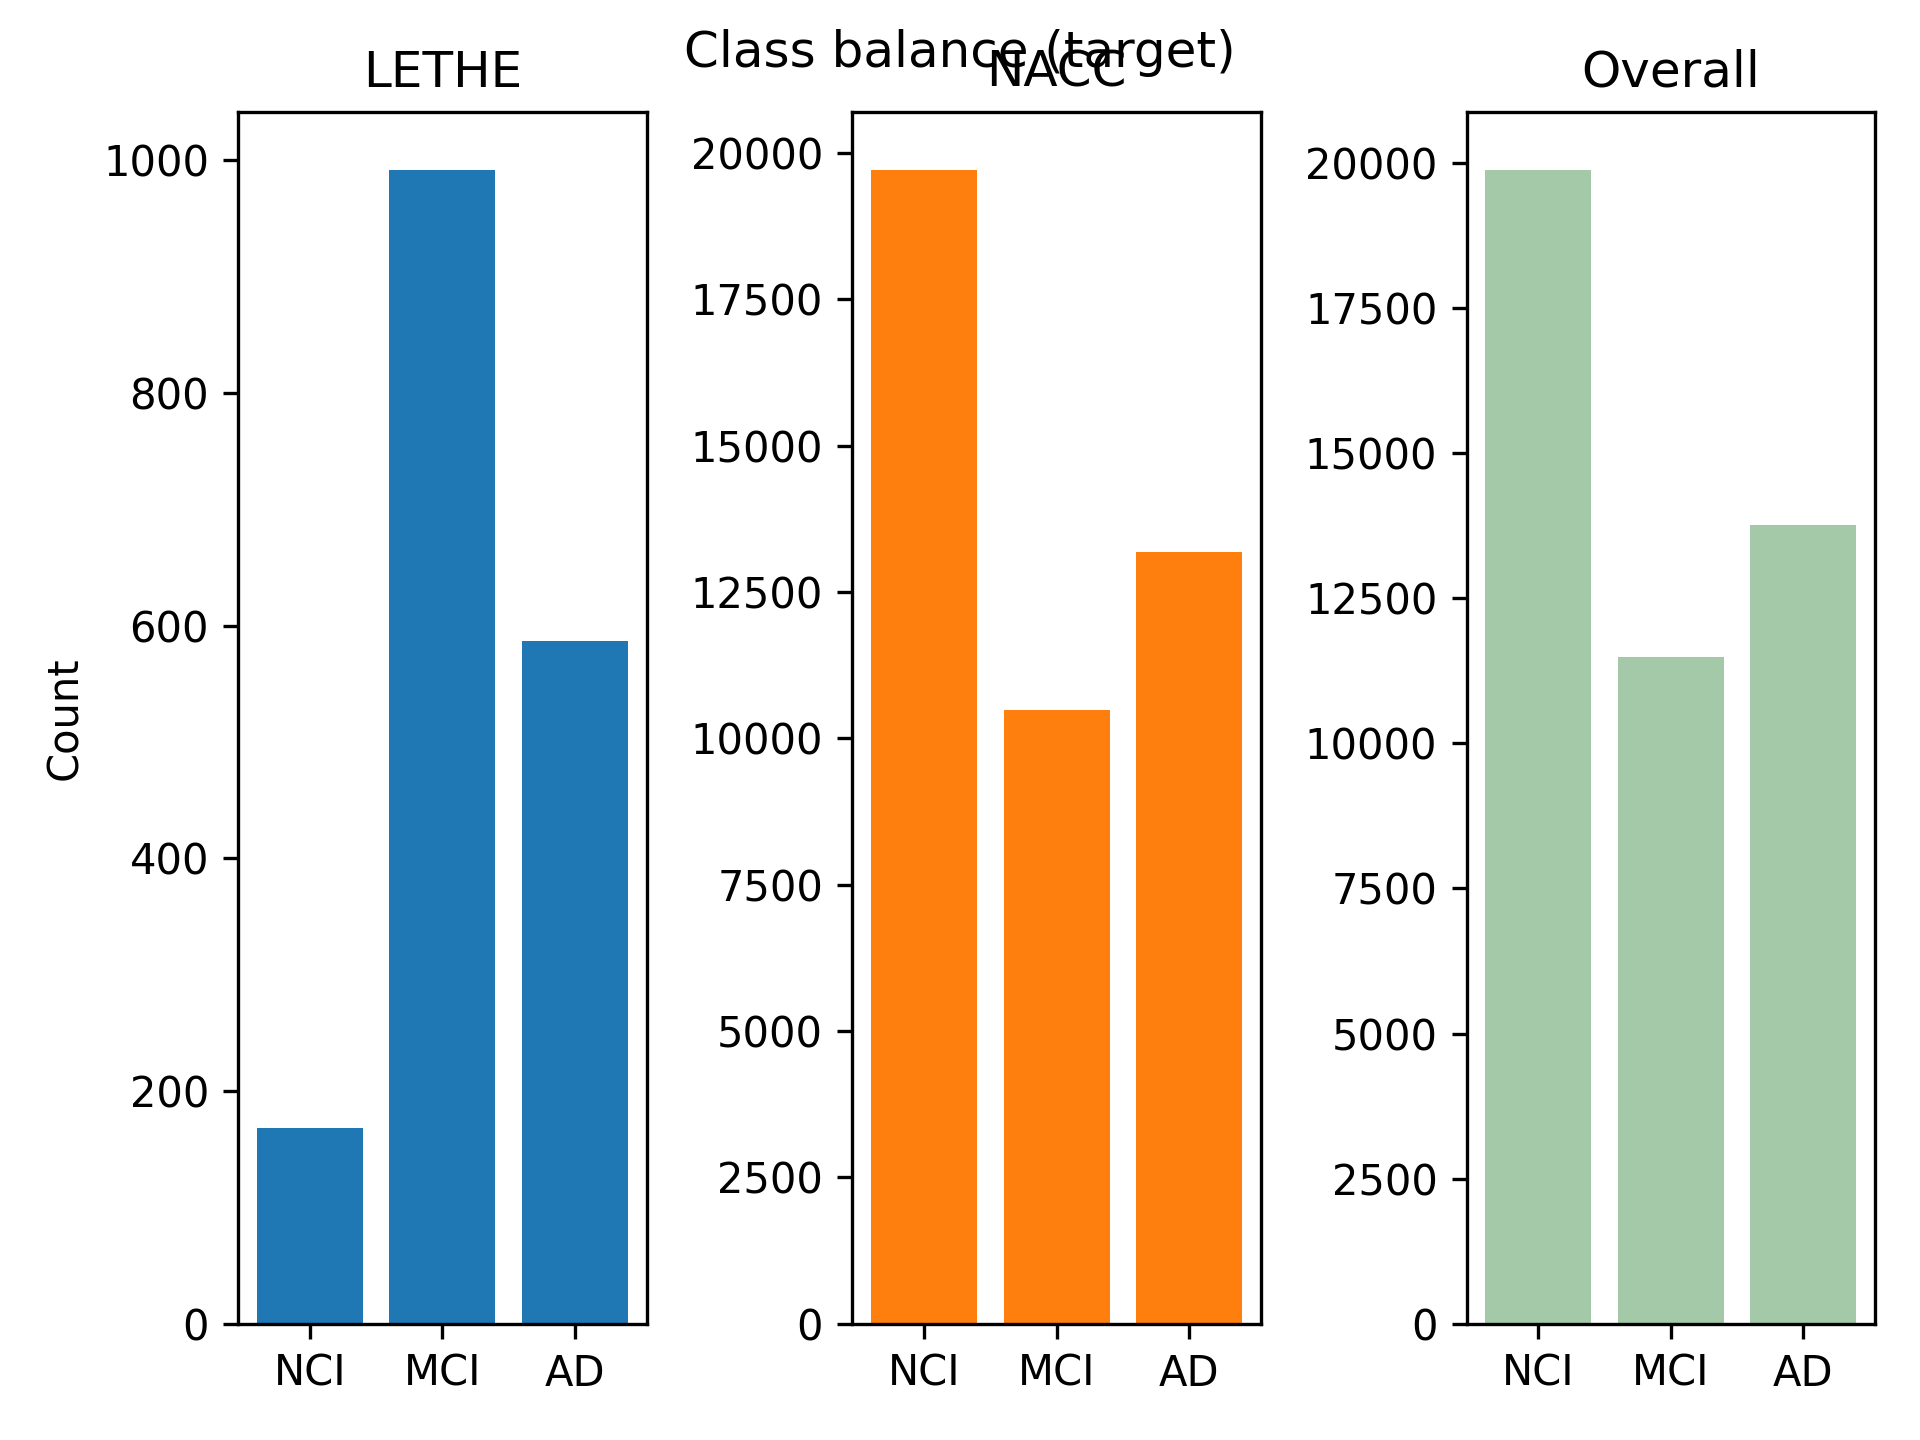
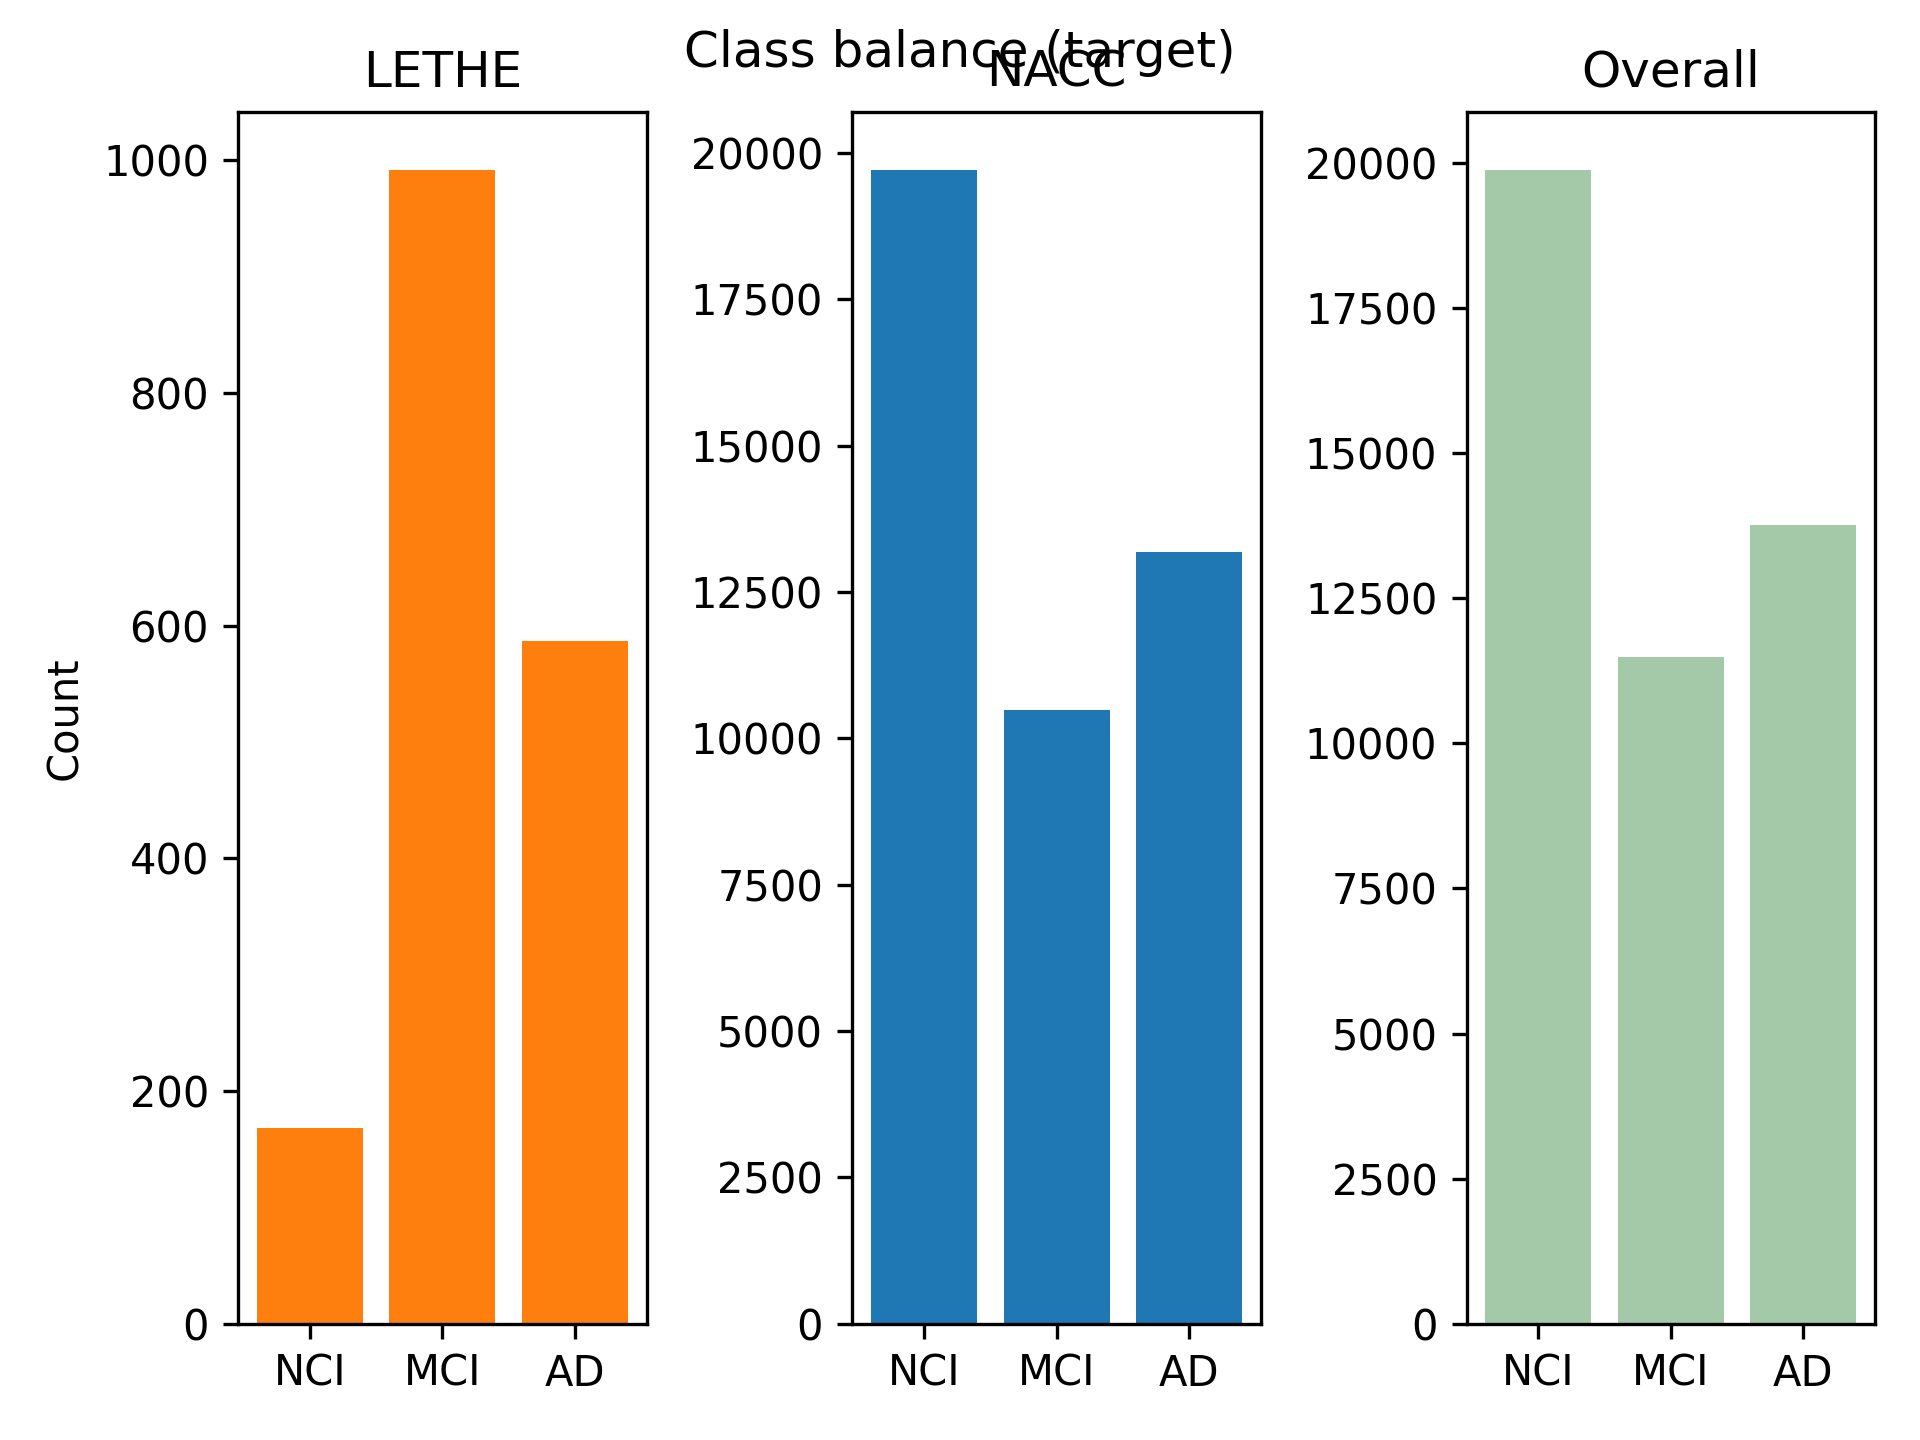
prvi graf

Changed region(s): [[0.4375, 0.0938, 0.6562, 0.9375], [0.125, 0.0938, 0.3438, 0.9375]]

diff --git a/src/grafi.py b/src/grafi.py
@@ -1,5 +1,6 @@
 import matplotlib.pyplot as plt
 import pathlib
+import pandas as pd
 import numpy as np
 
 plot_dir = pathlib.Path(__file__).resolve().parent
@@ -20,13 +21,13 @@ def target_class_balance(lethe, nacc):
     fig.subplots_adjust(top=3)
 
     # LETHE
-    ax_arr[0].bar(lbl, lethe_cog_status, color = MAT_BLUE)
+    ax_arr[0].bar(lbl, lethe_cog_status, color = MAT_ORANGE)
     ax_arr[0].set_title("Lethe")
     ax_arr[0].set_title("LETHE")
     ax_arr[0].set_ylabel("Count")
 
     # NACC
-    ax_arr[1].bar(lbl, nacc_cog_status, color = MAT_ORANGE)
+    ax_arr[1].bar(lbl, nacc_cog_status, color = MAT_BLUE)
     ax_arr[1].set_title("NACC")
 
     # OVERALL
@@ -37,3 +38,59 @@ def target_class_balance(lethe, nacc):
     fig.suptitle("Class balance (target)", fontsize=12)
     fig.savefig(plot_dir / "01_class_balance.png", dpi=300)
 
+
+def numeric_distributions(lethe, nacc):
+
+    numeric_clinical = [
+        "age",
+        "educ_years",
+        "mmse",
+        "cdr_total",
+        "ravlt_imm",
+        "tmt_b",
+        "sbp",
+        "bmi",
+        "diabetes_t2",
+    ]
+
+    fig, ax_arr = plt.subplots(3, 3, figsize=(12, 10))
+    ax_arr = ax_arr.flatten()
+
+    for i, col in enumerate(numeric_clinical):
+
+        if col not in lethe.columns or col not in nacc.columns:
+            ax_arr[i].set_title(col + " (missing)")
+            ax_arr[i].axis("off")
+            continue
+
+        lethe_vals = lethe[col].dropna()
+        nacc_vals  = nacc[col].dropna()
+
+        bins = 20
+
+        # weights → each participant contributes equally
+        lethe_weights = np.ones(len(lethe_vals)) / len(lethe_vals) * 100
+        nacc_weights  = np.ones(len(nacc_vals))  / len(nacc_vals)  * 100
+
+        # LETHE (filled)
+        ax_arr[i].hist(
+            lethe_vals,
+            bins=bins,
+            weights=lethe_weights,
+            alpha=0.6
+        )
+
+        # NACC (outline)
+        ax_arr[i].hist(
+            nacc_vals,
+            bins=bins,
+            weights=nacc_weights,
+            histtype="step",
+            linewidth=2
+        )
+
+        ax_arr[i].set_title(col)
+        ax_arr[i].set_ylabel("Percentage (%)")
+
+    plt.tight_layout()
+    plt.show()

diff --git a/src/recoding.py b/src/recoding.py
@@ -130,6 +130,9 @@ def recode (nacc, lethe):
     #df je nacc
     nacc["height"] *= 2.54
     nacc["weight"] *= 0.45359237
+
+    lethe["bmi"] = (lethe["weight"]) / ((lethe["height"])**2)
+
     # mogoče dodaj DBP pa SBP checks
 
 
@@ -470,7 +473,7 @@ def unify_dataset(lethe, nacc):
 
     print("AFTER recode")
     print("lethe columns:", repr(lethe.columns.tolist()))
-    print("nacc  columns:", repr(nacc.columns.tolist()))
+    print("nacc columns:", repr(nacc.columns.tolist()))
 
     both = pd.concat([lethe, nacc])
     print("Concatenated dfs:", both.head(10))

diff --git a/src/main.py b/src/main.py
@@ -1,7 +1,7 @@
 from data_loading import load_dataset
 import pandas as pd
 from recoding import unify_dataset
-from grafi import target_class_balance
+from grafi import target_class_balance, numeric_distributions
 
 def main():
     pd.set_option("display.max_rows", None)
@@ -15,6 +15,7 @@ def main():
     print(repr(lethe.columns.tolist()))
     print(repr(nacc.columns.tolist()))
     target_class_balance(lethe, nacc)
+    numeric_distributions(lethe, nacc)
 
 if __name__ == '__main__':
     main()
